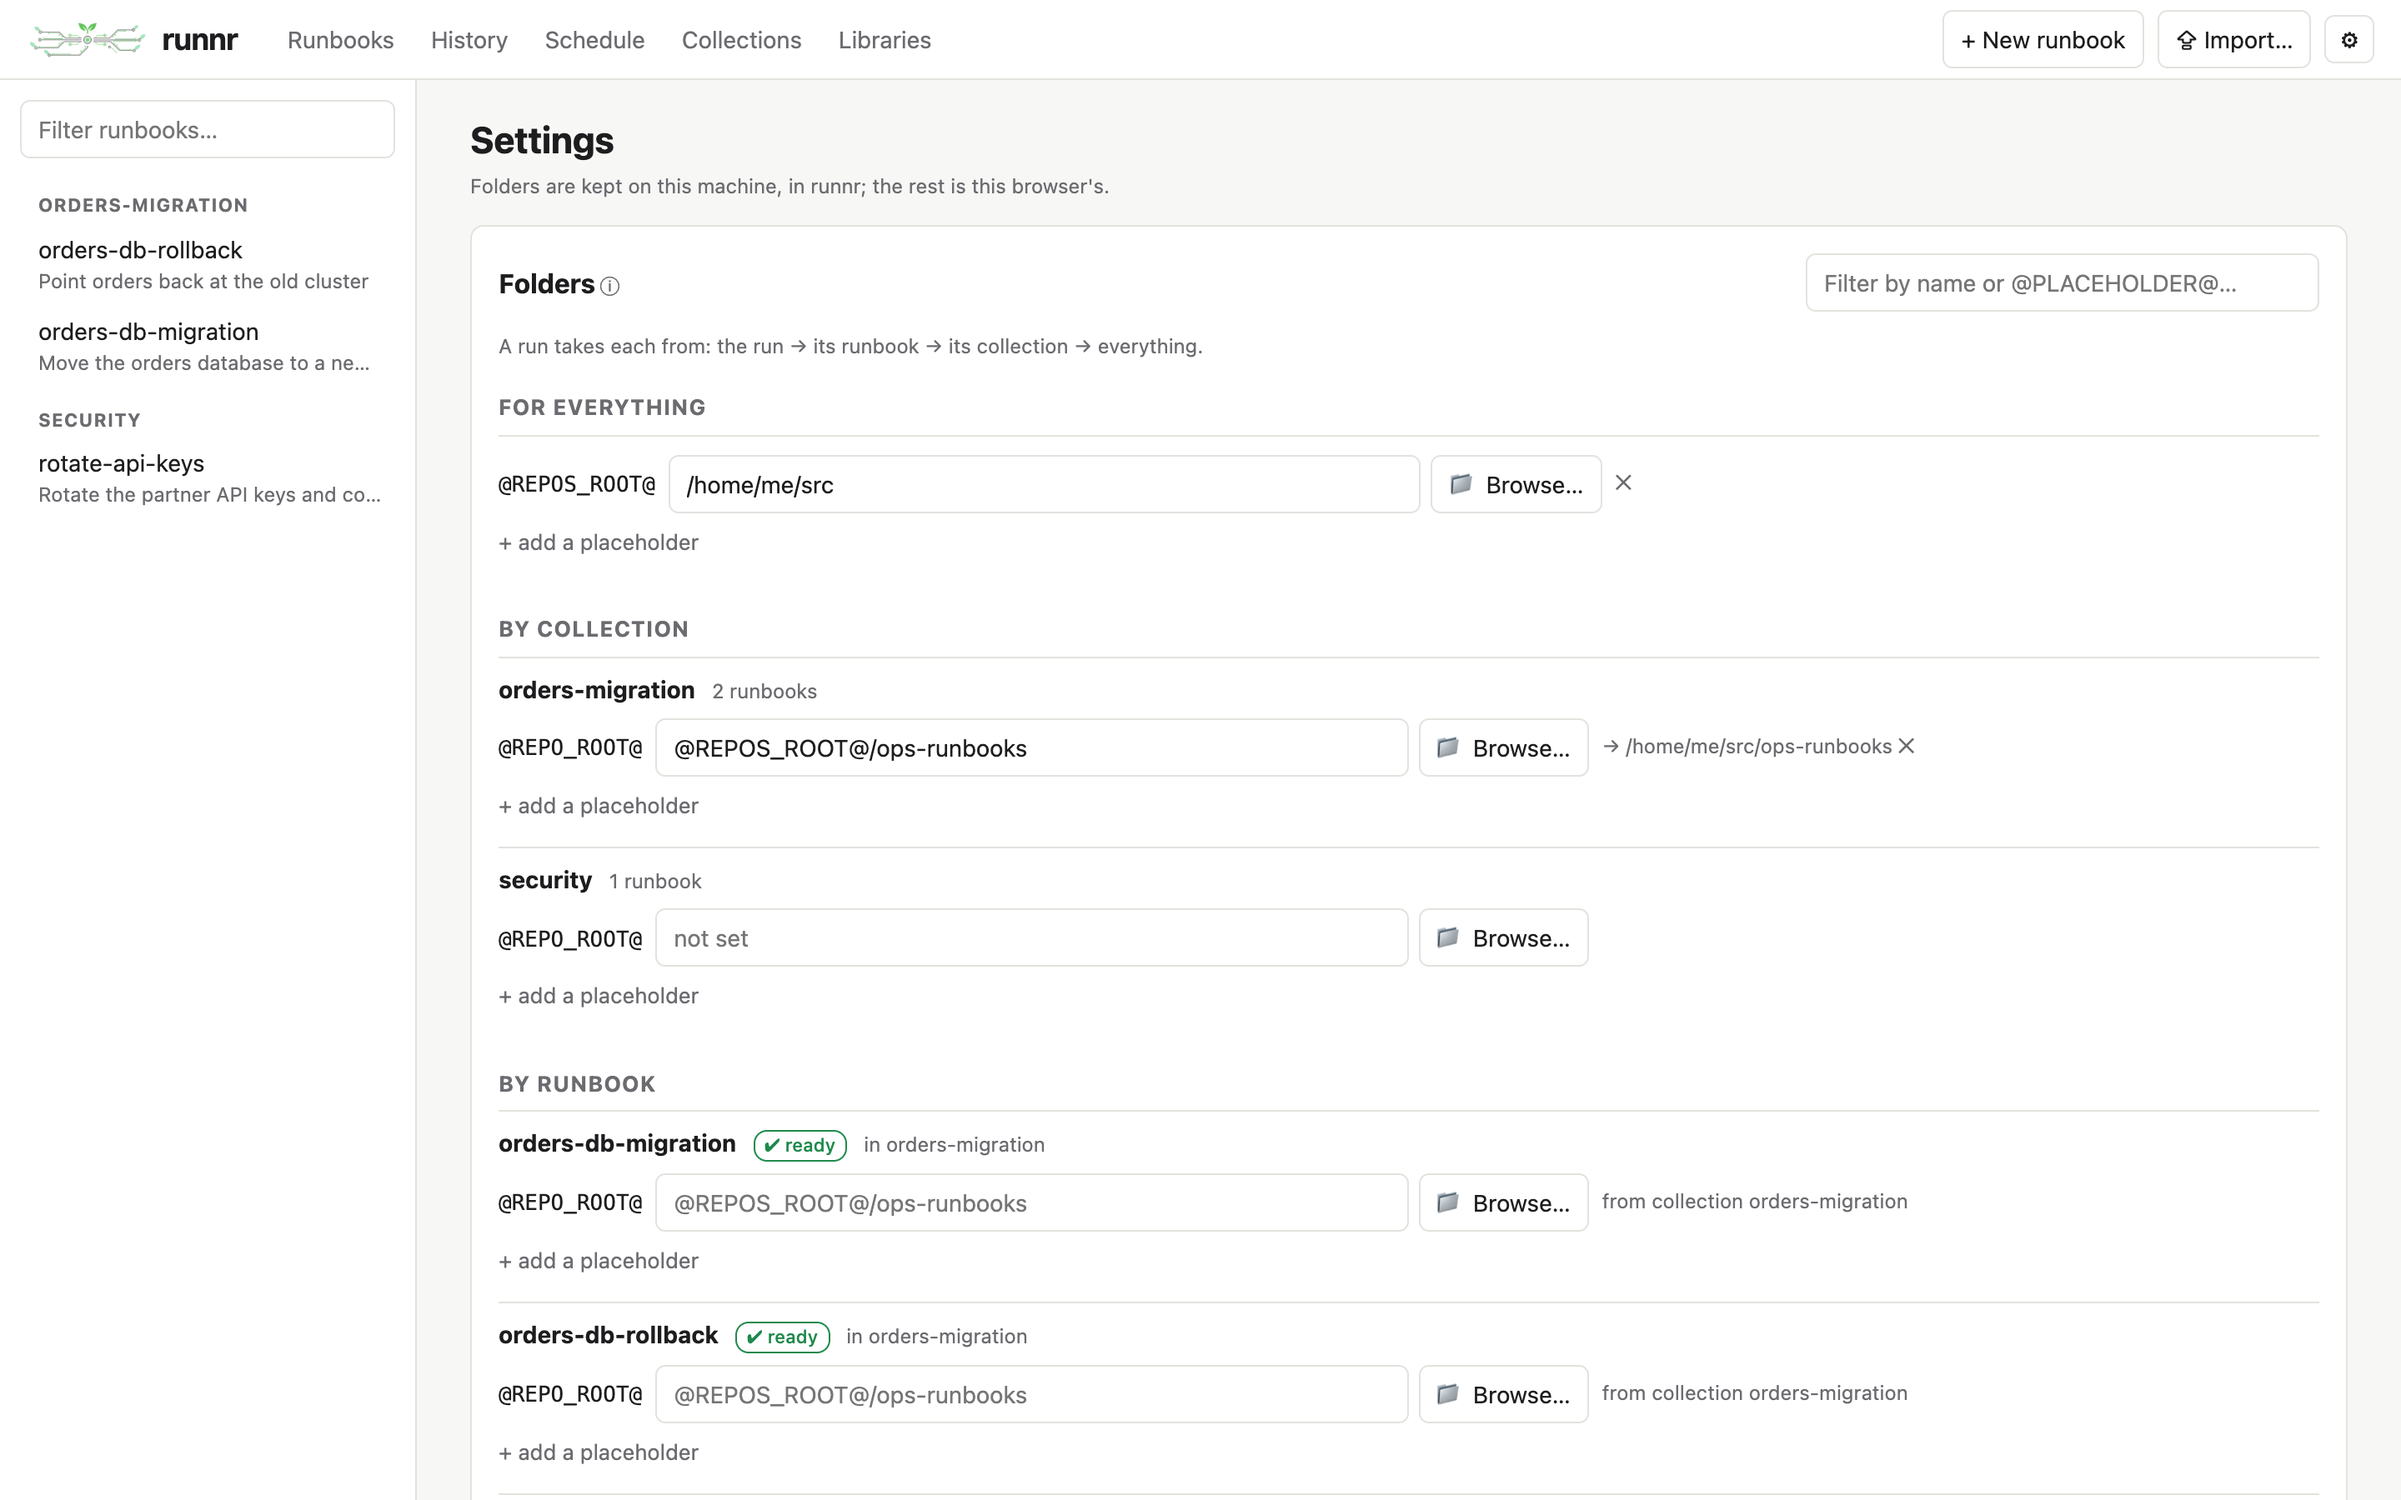
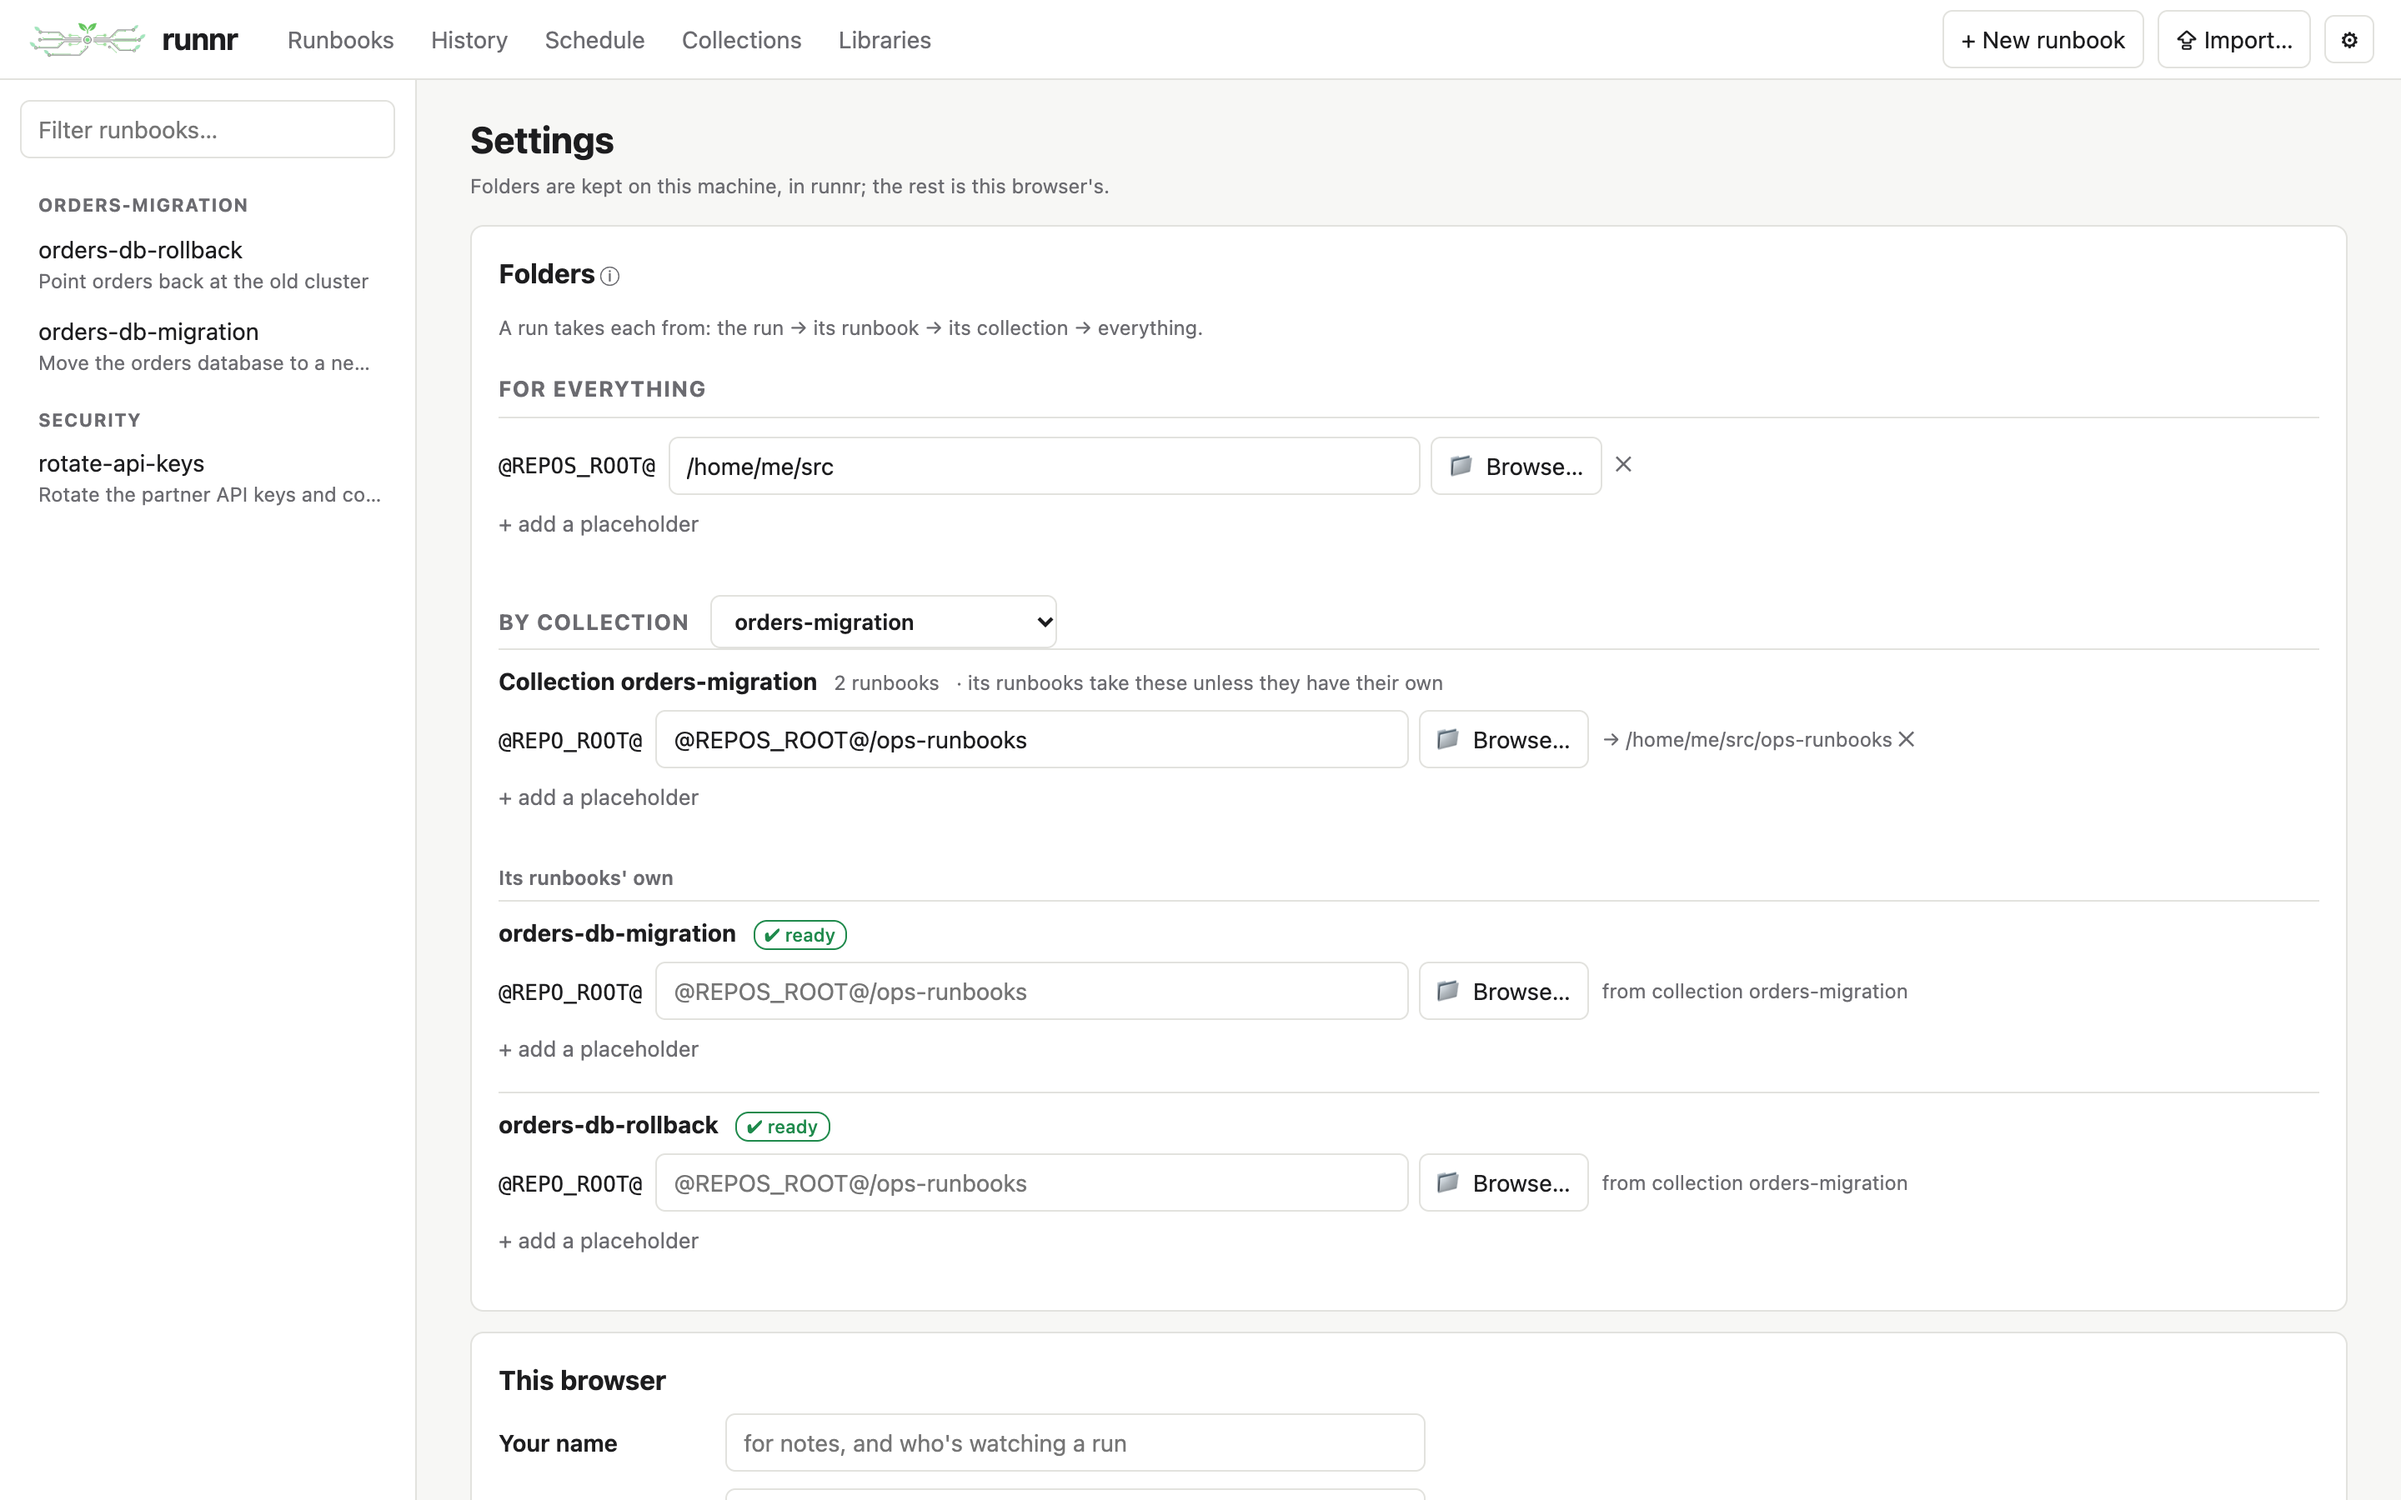
Settings: edit one collection at a time
A selector picks the collection; the page shows its folders and its
runbooks' own (or the runbooks in no collection), and remembers the
choice in this browser.

diff --git a/internal/server/web/settings.js b/internal/server/web/settings.js
@@ -4,7 +4,13 @@
 // everything, each collection and each runbook), and this browser's own
 // choices.
 
-const settingsUI = { q: "" };
+// The collection being edited ("" for runbooks in none), kept in this browser.
+function settingsCollection(set) {
+  try {
+    if (set !== undefined) localStorage.setItem("runnr.settingsCollection", set);
+    return localStorage.getItem("runnr.settingsCollection");
+  } catch { return set ?? null; }
+}
 
 async function viewSettings() {
   await loadCollections();
@@ -26,9 +32,6 @@ async function viewSettings() {
   const rbNames = [...new Set([...Object.keys(rbs).filter((r) => rbs[r].used?.length),
     ...Object.keys(scopes).filter((s) => s.startsWith("runbook:")).map((s) => s.slice(8))])].sort();
 
-  const q = settingsUI.q.toLowerCase();
-  const shows = (label, names) => !q || label.toLowerCase().includes(q) || names.some((n) => n.toLowerCase().includes(q.replace(/@/g, "")));
-
   // rows: a scope's placeholders: those it should have (names) and those set.
   const rows = (scope, names, inherit) => {
     const own = scopes[scope] || {};
@@ -47,11 +50,19 @@ async function viewSettings() {
     <tr><td colspan="3"><button class="link small" data-add-row title="Give another placeholder a folder${scope ? " here" : " for everything"}">+ add a placeholder</button><input class="set-new" data-scope="${esc(scope)}" placeholder="NAME=FOLDER" spellcheck="false" autocomplete="off" hidden></td></tr></table>`;
   };
 
-  const colBlocks = collections.filter((c) => shows(c.name, usedByCol(c).concat(Object.keys(scopes[c.name] || {})))).map((c) =>
-    `<div class="set-block"><div class="set-head"><b>${esc(c.name)}</b><span class="muted small">${(c.collection?.runbooks || []).length} runbook${(c.collection?.runbooks || []).length === 1 ? "" : "s"}</span></div>
-      ${rows(c.name, usedByCol(c), globalOf)}</div>`).join("");
+  // One collection at a time: its folders, and its runbooks'.
+  const loose = rbNames.filter((r) => !(rbs[r]?.collections || []).length);
+  const choices = [...collections.map((c) => c.name), ...(loose.length ? [""] : [])];
+  let col = settingsCollection();
+  if (col == null || !choices.includes(col)) col = choices[0] ?? null;
+  const c = collections.find((x) => x.name === col);
+  const members = c ? rbNames.filter((r) => (c.collection?.runbooks || []).includes(r)) : loose;
+  const n = (c?.collection?.runbooks || []).length;
+  const colBlock = c ? `<div class="set-block"><div class="set-head"><b>Collection ${esc(c.name)}</b><span class="muted small">${n} runbook${n === 1 ? "" : "s"}</span>
+      <span class="muted small">· its runbooks take these unless they have their own</span></div>
+      ${rows(c.name, usedByCol(c), globalOf)}</div>` : "";
 
-  const rbBlocks = rbNames.filter((r) => shows(r, (rbs[r]?.used || []).concat(Object.keys(scopes[`runbook:${r}`] || {})))).map((r) => {
+  const rbBlocks = members.map((r) => {
     const f = rbs[r];
     const cols = f?.collections || [];
     const inherit = (n) => colOf(cols, n) || globalOf(n);
@@ -59,9 +70,11 @@ async function viewSettings() {
       : f.problems?.length ? `<span class="badge-k fail" title="${esc(f.problems.map((p) => `@${p.name}@ ${p.why}`).join("\n"))}">✘ ${f.problems.length} not ready</span>`
       : `<span class="badge-k ok" title="Every placeholder it names is a folder here">✔ ready</span>`;
     return `<div class="set-block"><div class="set-head"><a href="#/runbooks/${enc(r)}"><b>${esc(r)}</b></a>${state}
-      <span class="muted small">${cols.length ? `in ${cols.map(esc).join(", ")}` : "in no collection"}</span></div>
+      ${cols.length > 1 ? `<span class="muted small">also in ${cols.filter((x) => x !== col).map(esc).join(", ")}</span>` : ""}</div>
       ${rows(`runbook:${r}`, f?.used || [], inherit)}</div>`;
   }).join("");
+  const picker = choices.length ? `<label class="set-pick" title="Edit one collection at a time: its folders and its runbooks'"><select id="set-col">${choices.map((x) =>
+    `<option value="${esc(x)}" ${x === col ? "selected" : ""}>${x ? esc(x) : "Runbooks in no collection"}</option>`).join("")}</select></label>` : "";
 
   let name = "";
   try { name = localStorage.getItem("runnr.author") || ""; } catch {}
@@ -69,12 +82,13 @@ async function viewSettings() {
     <div class="row page-head"><h1>Settings</h1></div>
     <p class="muted small page-sub">Folders are kept on this machine, in runnr; the rest is this browser's.</p>
     <section class="card">
-      <div class="row set-title"><h2>Folders${helpIcon("Runbooks name folders by placeholder (@REPO_ROOT@/tools) and are kept as written, so they're the same on every machine. A run fills each in from, first to last: what's given for the run, its runbook's, its collection's, and those for everything. A value can name another (@REPOS_ROOT@/ops-runbooks) or start with ~. A run doesn't start while one it names isn't a folder here.")}</h2>
-        <span class="spacer"></span><input type="search" id="set-filter" placeholder="Filter by name or @PLACEHOLDER@…" value="${esc(settingsUI.q)}"></div>
+      <div class="row set-title"><h2>Folders${helpIcon("Runbooks name folders by placeholder (@REPO_ROOT@/tools) and are kept as written, so they're the same on every machine. A run fills each in from, first to last: what's given for the run, its runbook's, its collection's, and those for everything. A value can name another (@REPOS_ROOT@/ops-runbooks) or start with ~. A run doesn't start while one it names isn't a folder here.")}</h2></div>
       <p class="muted small">A run takes each from: the run → its runbook → its collection → everything.</p>
-      ${!q || shows("everything", ["REPOS_ROOT", ...Object.keys(scopes[""] || {})]) ? `<h3>For everything</h3><div class="set-block">${rows("", ["REPOS_ROOT"], inherited[""])}</div>` : ""}
-      ${colBlocks ? `<h3>By collection</h3>${colBlocks}` : ""}
-      ${rbBlocks ? `<h3>By runbook</h3>${rbBlocks}` : q ? "" : `<h3>By runbook</h3><p class="muted small">No runbook names a placeholder.</p>`}
+      <h3>For everything</h3><div class="set-block">${rows("", ["REPOS_ROOT"], inherited[""])}</div>
+      <div class="row set-col-head"><h3>By collection</h3>${picker}</div>
+      ${!choices.length ? `<p class="muted small">No collections yet, and no runbook names a placeholder.</p>` : ""}
+      ${colBlock}
+      ${col != null ? (rbBlocks ? `<h4 class="set-sub">Its runbooks' own</h4>${rbBlocks}` : `<p class="muted small">None of ${c ? "its" : "these"} runbooks names a placeholder.</p>`) : ""}
     </section>
     <section class="card">
       <h2>This browser</h2>
@@ -100,9 +114,7 @@ async function viewSettings() {
     if (!n.trim() || !v.join("=").trim()) return toast("Give it as NAME=FOLDER");
     put(el.dataset.scope, n.trim().replace(/^@|@$/g, ""), v.join("=").trim());
   }));
-  const filter = $("#set-filter");
-  let t;
-  filter.oninput = () => { clearTimeout(t); t = setTimeout(() => { settingsUI.q = filter.value; viewSettings().then(() => { const f = $("#set-filter"); f.focus(); f.setSelectionRange(f.value.length, f.value.length); }); }, 250); };
+  $("#set-col") && ($("#set-col").onchange = (e) => { settingsCollection(e.target.value); viewSettings(); });
   $("#set-name").onchange = (e) => { try { localStorage.setItem("runnr.author", e.target.value.trim()); toast("Saved"); } catch {} };
   $("#set-view").onchange = (e) => { runView(e.target.value); toast("Saved"); };
   $("#set-copy").onchange = (e) => setCopyOnSelect(e.target.checked);

diff --git a/internal/server/web/style.css b/internal/server/web/style.css
@@ -960,7 +960,11 @@ summary.icon-only[title="Settings and help"] { font-size: 16px; padding: 3px 9px
 /* Settings */
 .set-title { gap: 12px; }
 .set-title h2 { margin: 0; }
-#set-filter { width: 22em; max-width: 100%; }
+.set-col-head { gap: 12px; align-items: baseline; margin-top: 18px; }
+.set-col-head h3 { margin: 0 !important; }
+.set-pick { display: inline-flex; gap: 8px; align-items: center; font-size: 13px; }
+.set-pick select { min-width: 16em; font-weight: 600; }
+.set-sub { font-size: 12px; color: var(--muted); margin: 14px 0 4px; font-weight: 600; }
 section.card > h2 { margin-top: 0; }
 section.card h3 { font-size: 13px; text-transform: uppercase; letter-spacing: .05em; color: var(--muted); margin: 18px 0 6px; }
 .set-block { padding: 8px 0 10px; border-top: 1px solid var(--border); }
@@ -980,3 +984,5 @@ section.card h3 { font-size: 13px; text-transform: uppercase; letter-spacing: .0
   .set-rows tr, .set-rows td { display: block; width: auto !important; }
   .set-rows td:first-child { margin-top: 6px; }
 }
+.form-grid label.check { display: flex; gap: 6px; align-items: center; font-weight: 400; color: var(--muted); }
+.form-grid label.check input { width: auto; }

diff --git a/CHANGELOG.md b/CHANGELOG.md
@@ -34,8 +34,9 @@ placeholders' folders for everything, a collection or a runbook.
 
 - **Settings page** (under ⚙). Sets the folders placeholders stand for on
   this machine: `@REPOS_ROOT@` and others for everything, and any
-  placeholder for a collection or a single runbook. It lists each runbook
-  that names one, where each value comes from, and whether it can start.
+  placeholder for a collection or a single runbook. Pick a collection to
+  edit it and its runbooks' own folders; each runbook shows where its values
+  come from and whether it can start.
   It also holds this browser's choices: your name, whether runs open in the
   run page or the console, and Copy on select. The Collections page no
   longer sets folders. `GET /api/folders` also gives each runbook's

diff --git a/docs/TOUR.md b/docs/TOUR.md
@@ -149,8 +149,9 @@ it (Alt/⌥ to add it to another as well); names and descriptions edit in place.
 
 Under ⚙. The folders placeholders stand for on this machine: `@REPOS_ROOT@`
 for everything, and any placeholder for a collection or a single runbook.
-Each runbook that names one shows where its value comes from (the runbook,
-its collection, or everything) and whether a run can start. A value can
+Pick a collection to edit its folders and its runbooks' own; each runbook
+shows where its value comes from (the runbook, its collection, or
+everything) and whether a run can start. A value can
 name another (`@REPOS_ROOT@/ops-runbooks`). Also this browser's own choices:
 your name, whether runs open in the run page or the console, and Copy on
 select.

diff --git a/README.md b/README.md
@@ -140,8 +140,8 @@ They're kept as written (imported, stored and exported with the `@…@` in),
 and each machine says what they stand for, with `runnr folders` or the
 GUI's **Settings** page (under ⚙): `@REPOS_ROOT@` (where your repositories
 are) for everything, and `@REPO_ROOT@`, `@PROJECT_DIR@` or any other for a
-collection's runbooks or for one runbook. Settings lists every runbook that
-names a placeholder, where each value comes from and whether it can start.
+collection's runbooks or for one runbook. Settings edits one collection at a time,
+with its runbooks: where each value comes from and whether it can start.
 A value can name another, so only `@REPOS_ROOT@` need differ between
 machines:
 
